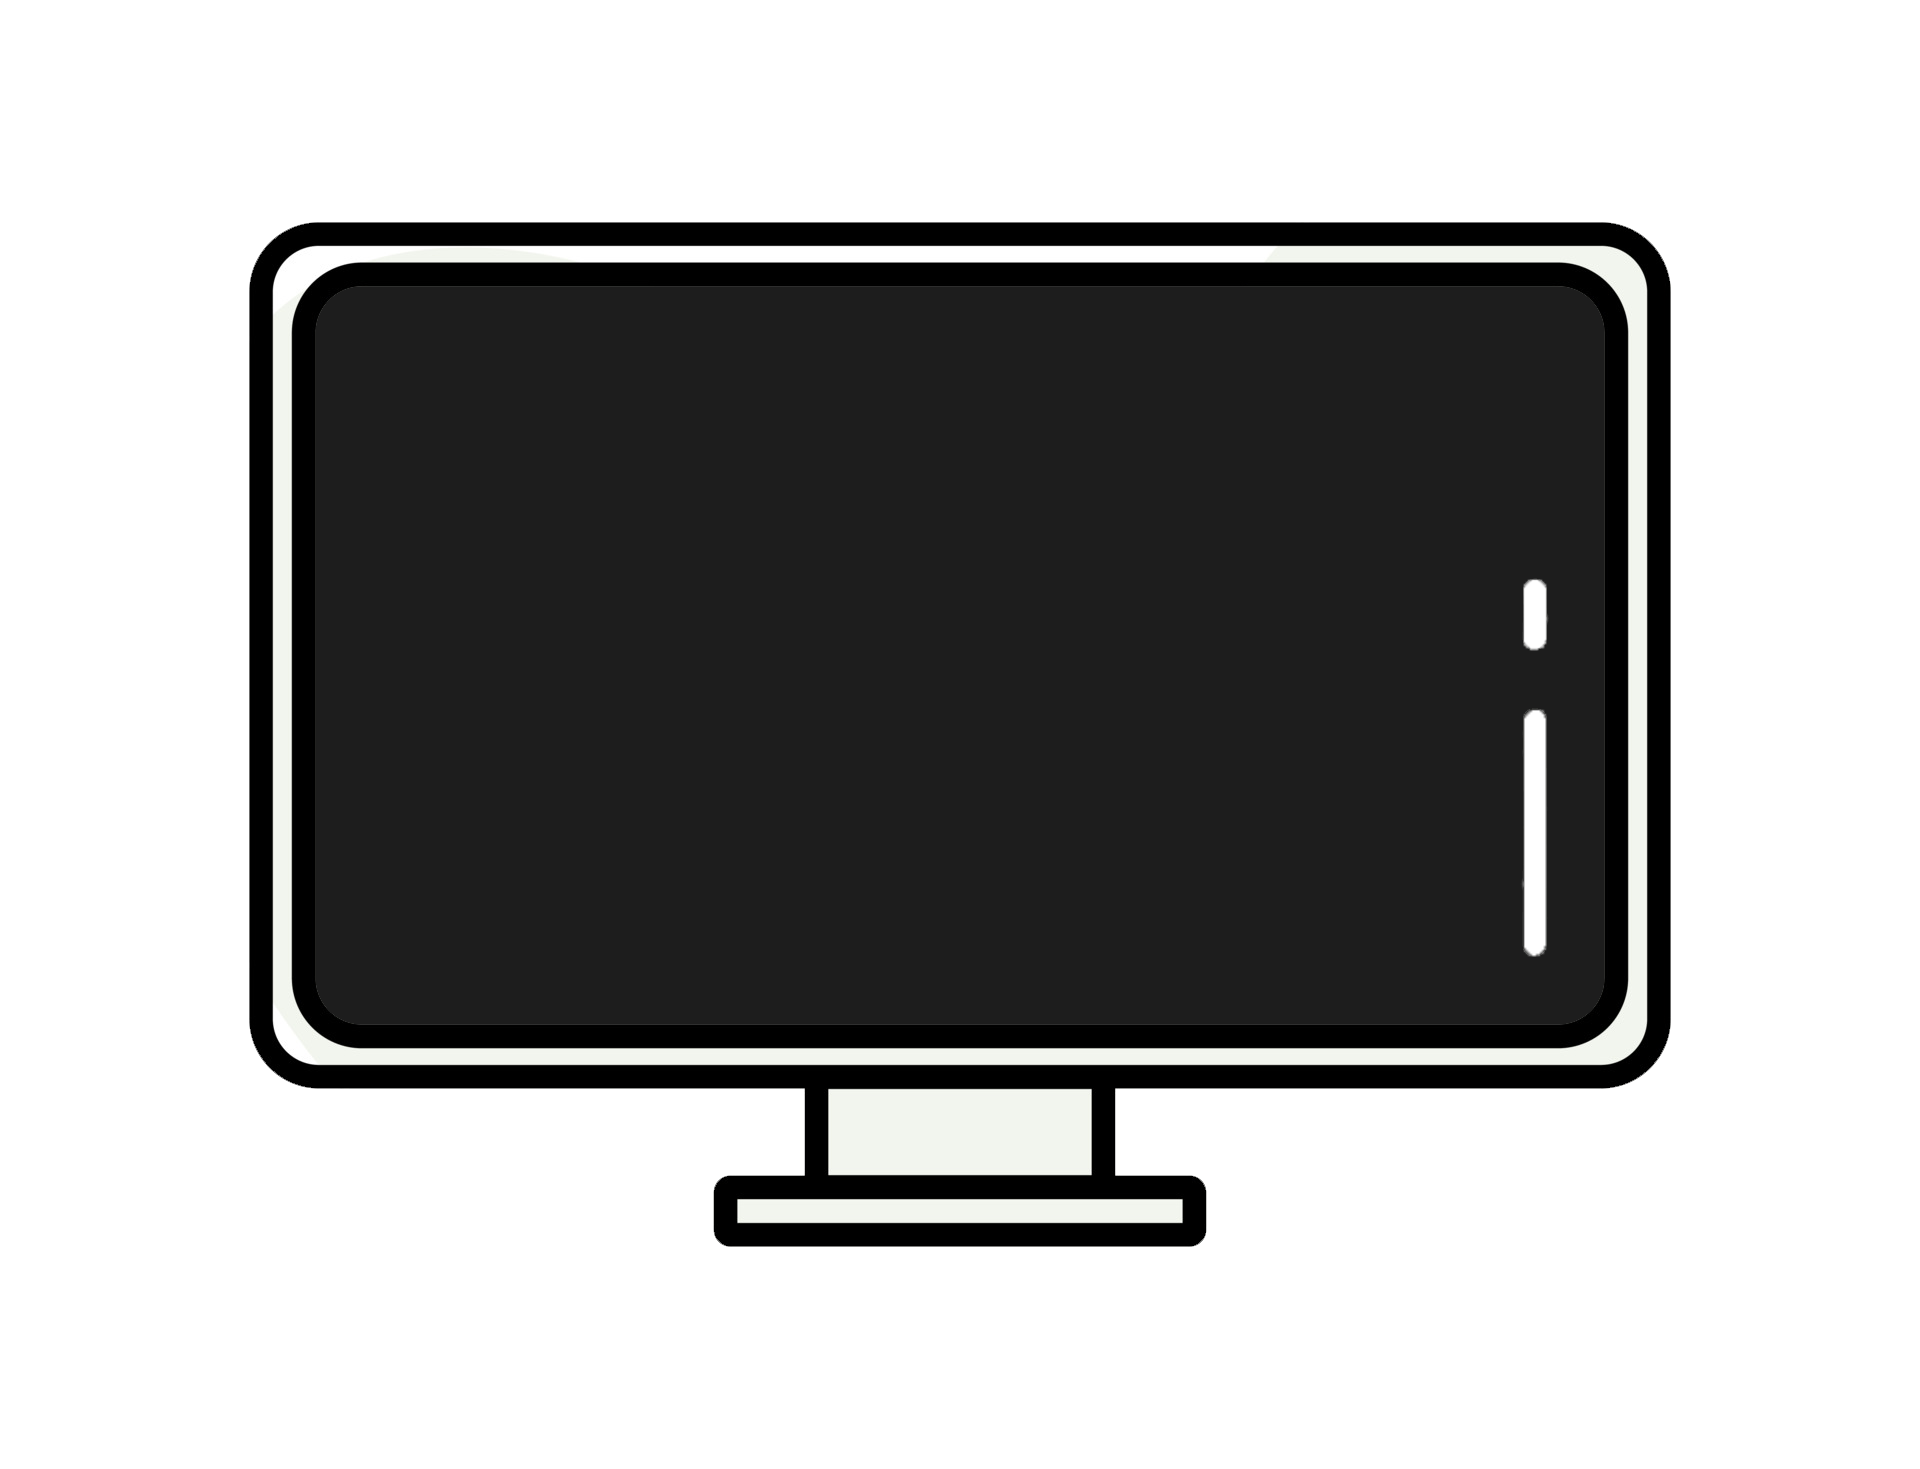
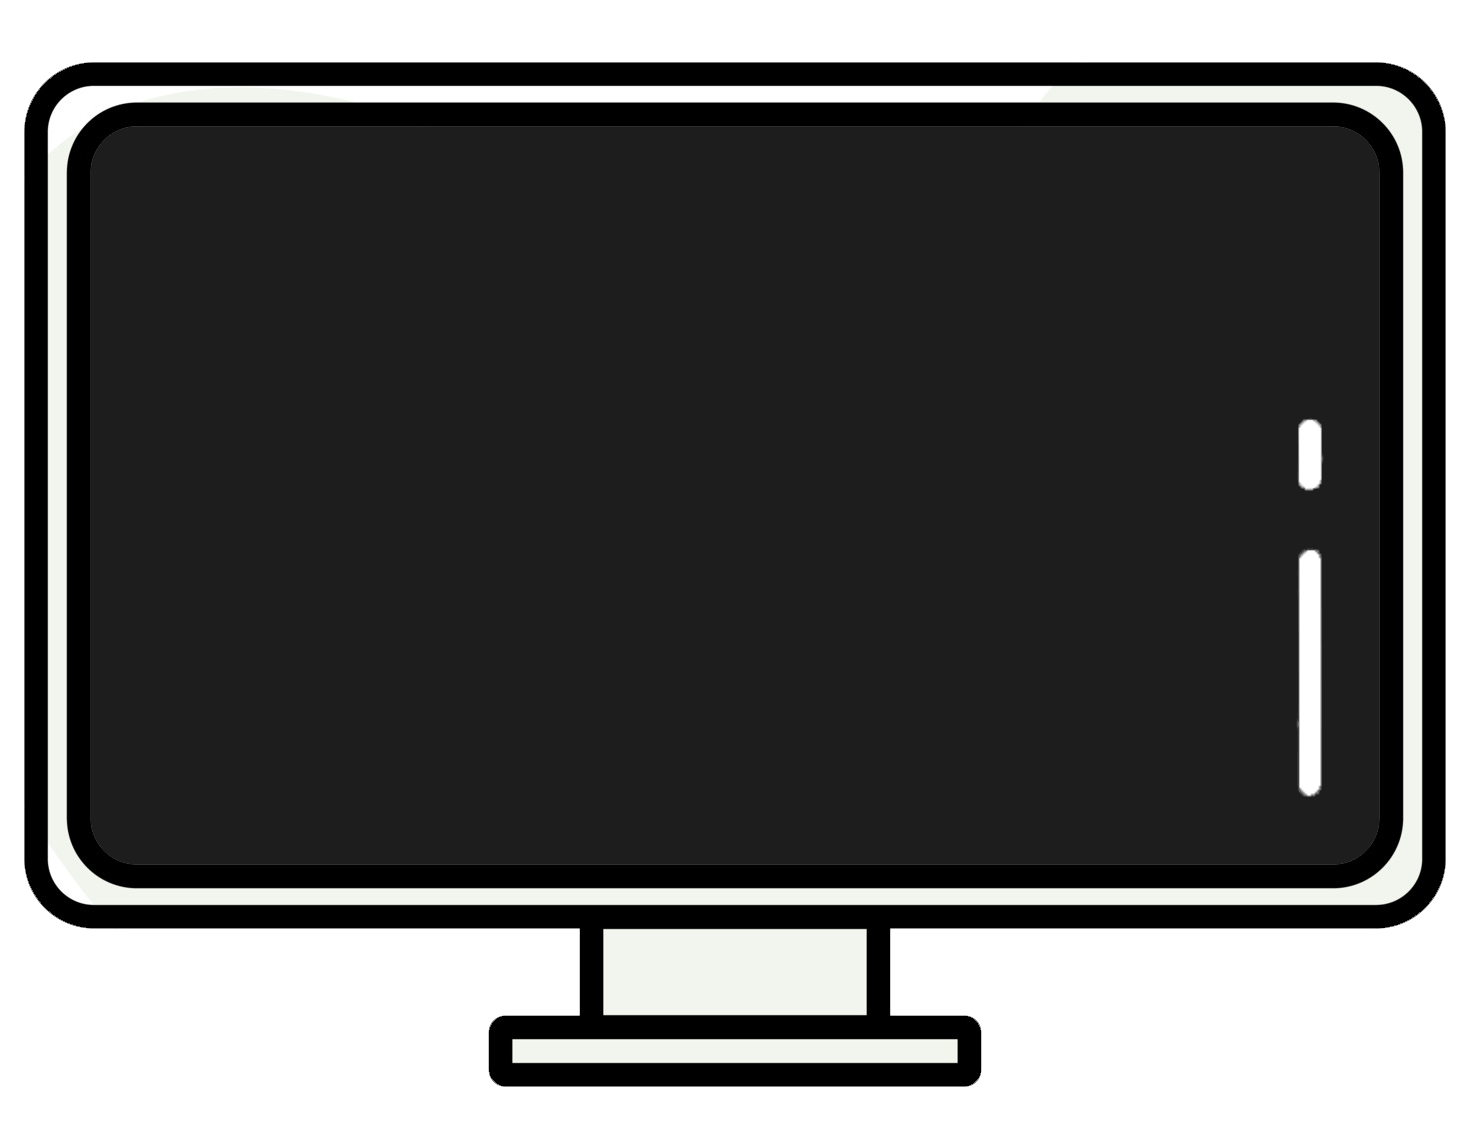
skills adjusted image

diff --git a/portfoliosite/src/ComponentsStyle/skills.css b/portfoliosite/src/ComponentsStyle/skills.css
@@ -6,22 +6,27 @@
   height: 100vh;
   background-color: brown;
   background-color: rgba(244,191,28,255);
-  font-size: 20px;
-  color: whitesmoke}
+}
 
-  .monitorAndSkills{
+
+.skillsTitle{
+  font-size: 40px;
+  color: whitesmoke;
+}
+
+.monitorAndSkills{
 display:flex;
 flex-direction: row;
 justify-content: center;
 align-items: center;
-  }
+}
 
 
-  .skillsMonitor{
-    height: 90vh;
-    width: auto;
-    z-index: 98;
-  }
+.skillsMonitor{
+height: 70vh;
+width: auto;
+z-index: 98;
+}
 
 
 .skillsDiv{
@@ -29,7 +34,7 @@ align-items: center;
   width: 40%;
   z-index: 99;
   position: absolute;
-  padding-bottom: 80px;
+  padding-bottom: 5%;
 }
   
   .skillLogo{
@@ -44,8 +49,12 @@ align-items: center;
 
   @media only screen and (max-width: 650px) {
 
+    .skillsTitle{
+      font-size: 22px;
+      color: whitesmoke;
+    }
+
     .skillsDiv{
-      font-size: 17px;
       width: 80%;
       padding-bottom: 50px;
     }
@@ -59,23 +68,20 @@ align-items: center;
 
 
     .skillsMonitor{
-      height: 60vh;
+      height: 35vh;
     }
 
   }
 
   @media only screen and (max-width: 450px) {
 
-    .skillsMonitor{
-      height: 40vh;
-    }
 
     .skillLogo{
       height: 23px;
     }
 
     .skillLogo:hover{
-      transform: scale(1.8);
+      transform: scale(2);
     }
 
   }

diff --git a/portfoliosite/src/Components/skills.js b/portfoliosite/src/Components/skills.js
@@ -8,11 +8,11 @@ export default function Contact(props) {
 
   return (
     <div ref={skillsRef} class="skillsArea">
-         <div>
-        <h2>What I use</h2>
+         <div class="skillsTitle">
+        <h2>My developement Languages and Tools</h2>
       </div>
       <div class="monitorAndSkills">
-      <div>
+      <div class="entireSkills">
           <img class="skillsMonitor" src={Monitor}></img>
       </div>
        <div class="skillsDiv">
